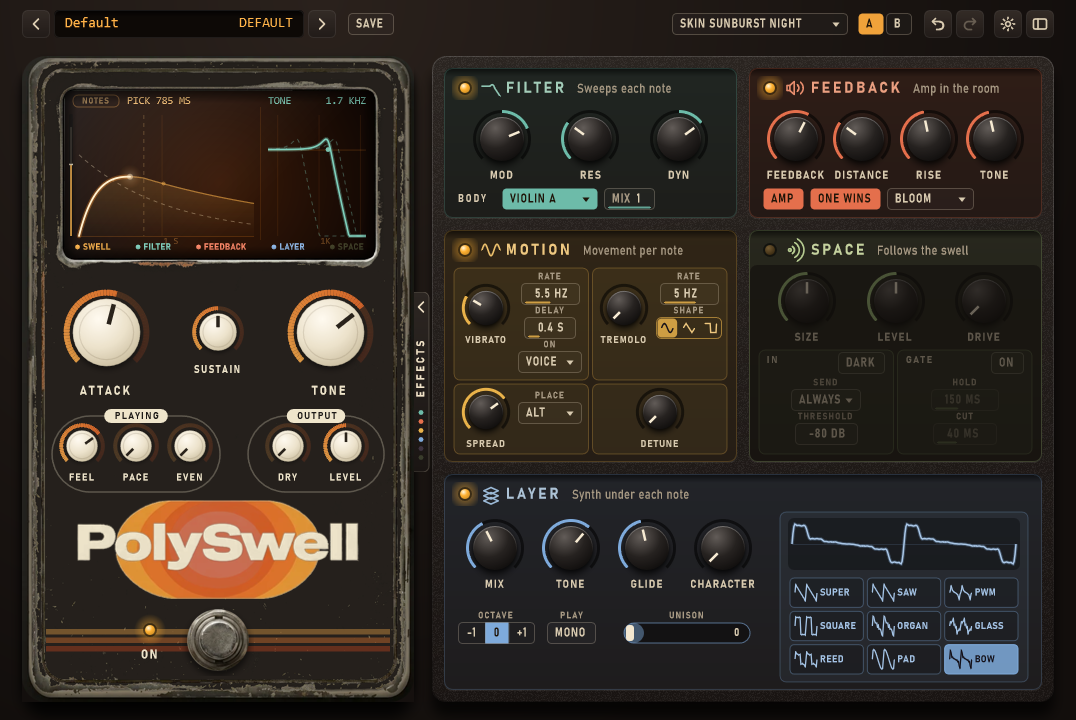
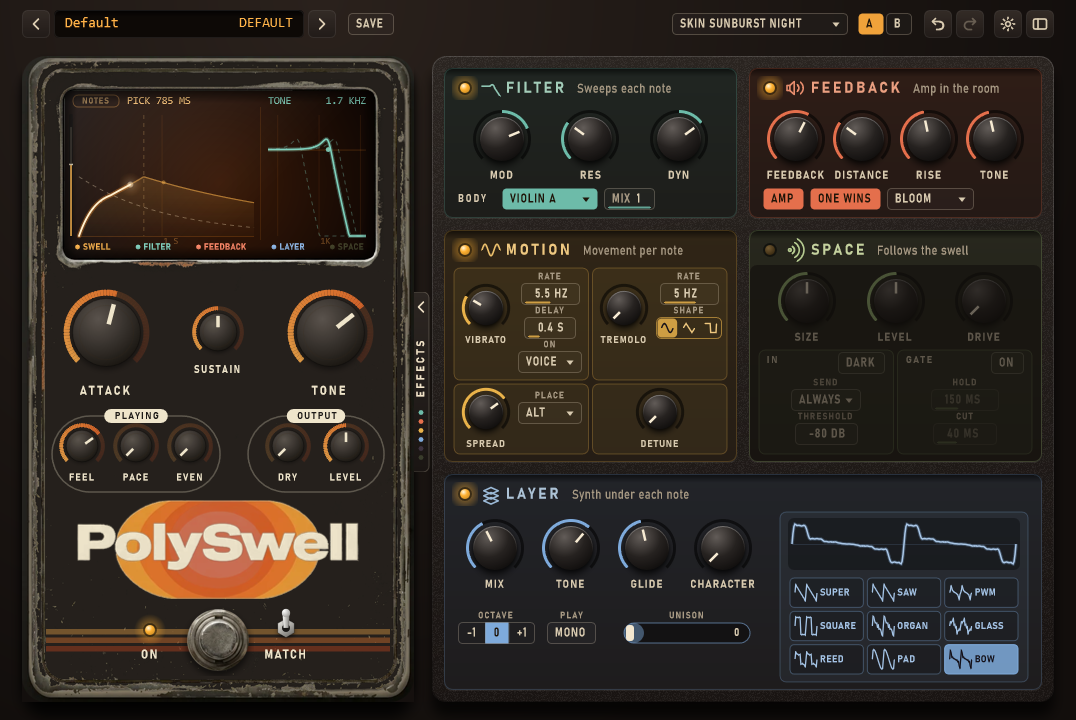
Sunburst Night: black knobs with cream pointers; MATCH tooltip says the POG2 behaves like MATCH on

diff --git a/Source/PluginEditor.cpp b/Source/PluginEditor.cpp
@@ -47,6 +47,7 @@ struct Skin
     Colour ink, body1, frame2, accent, onAccent, led;
     Colour rings[3];
     Colour glass1, glass2, glow, amber, pale, text, textHi;
+    Colour faceHi { 0xfffffaf0 }, faceMid { 0xffece2cb }, faceLo { 0xffc9bc9d }, pointer { 0xff2a231b };   // the pedal knobs (ivory)
     juce::Image plateImg() const { return juce::ImageCache::getFromMemory (plate, plateSize); }
     juce::Image logoImg() const  { return juce::ImageCache::getFromMemory (logo, logoSize); }
 };
@@ -69,7 +70,8 @@ const Skin& skinAt (int i)
         { "Sunburst Night", BinaryData::plate_night_png, BinaryData::plate_night_pngSize, BinaryData::logo_night_png, BinaryData::logo_night_pngSize,
           Colour (0xffefe5cb), Colour (0xff1c1916), Colour (0x47efe5cb), Colour (0xffd9732f), Colour (0xfffff4df), Colour (0xffffb030),
           { Colour (0xffe09a45), Colour (0xffd9732f), Colour (0xffbc4320) },
-          Colour (0xff3a1a08), Colour (0xff0c0503), Colour (0xffff8a1f), Colour (0xffffb347), Colour (0xfffff1cf), Colour (0xffe89a45), Colour (0xffffc777) } };
+          Colour (0xff3a1a08), Colour (0xff0c0503), Colour (0xffff8a1f), Colour (0xffffb347), Colour (0xfffff1cf), Colour (0xffe89a45), Colour (0xffffc777),
+          Colour (0xff5a534c), Colour (0xff35302b), Colour (0xff17140f), Colour (0xffefe5cb) } };   // black knobs, cream pointers
     return s[juce::jlimit (0, kNumSkins - 1, i)];
 }
 
@@ -334,13 +336,13 @@ struct Look : juce::LookAndFeel_V4
             }
             juce::Path face; face.addEllipse (c - R, cy - R, 2 * R, 2 * R);
             juce::DropShadow (juce::Colours::black.withAlpha (0.45f), juce::jmax (2, juce::roundToInt (R * 0.18f)), { 0, juce::jmax (1, juce::roundToInt (R * 0.09f)) }).drawForPath (g, face);
-            juce::ColourGradient fg (Colour (0xfffffaf0), c - R * 0.24f, cy - R * 0.4f, Colour (0xffc9bc9d), c + R * 0.6f, cy + R * 0.9f, true);
-            fg.addColour (0.55, Colour (0xffece2cb));
+            juce::ColourGradient fg (skin->faceHi, c - R * 0.24f, cy - R * 0.4f, skin->faceLo, c + R * 0.6f, cy + R * 0.9f, true);
+            fg.addColour (0.55, skin->faceMid);
             g.setGradientFill (fg); g.fillPath (face);
             g.setColour (juce::Colours::black.withAlpha (0.28f)); g.strokePath (face, juce::PathStrokeType (1.f));
             g.setColour (Colour (0x1f3c2814)); g.drawEllipse (c - R * 0.8f, cy - R * 0.8f, R * 1.6f, R * 1.6f, 1.2f);
             const float sn = std::sin (a), cs = -std::cos (a);
-            g.setColour (Colour (0xff2a231b));
+            g.setColour (skin->pointer);
             g.drawLine (juce::Line<float> (c + sn * R * 0.25f, cy + cs * R * 0.25f, c + sn * R * 0.86f, cy + cs * R * 0.86f), R > 25.f ? 4.5f : R > 16.f ? 3.5f : 2.6f);
             return;
         }
@@ -2379,7 +2381,8 @@ struct PolySwellEditor::Board : juce::Component, Host, juce::Timer
         label ("ON", { px + 128 - 20, py + 592, 40, 14 }, 12.f, col::ink, juce::Justification::centred, true, 0.18f);
         // MATCH: a mini toggle mirroring the LED on the other side of the footswitch
         matchSw = std::make_unique<MiniToggle> (proc, "levelMatch");
-        matchSw->setTooltip ("MATCH: each note's swell ends as loud as its pick (up = on). Off: the note keeps the string's own fade, so looser playing stays quieter. Right-click: MIDI learn.");
+        matchSw->setTooltip ("MATCH: each note's swell ends as loud as its pick (up = on, the default). Off: the note keeps the string's own fade, so looser playing stays quieter. "
+                             "The POG2 has no such switch: its built-in gain always brings plucks back to about their pick level, which is MATCH on. Right-click: MIDI learn.");
         matchSw->onMenu = [this] { midiMenu ("levelMatch", *matchSw); };
         matchSw->setBounds (juce::roundToInt (px + 264 - 16), juce::roundToInt (py + 572 - 20), 32, 40);
         addAndMakeVisible (*matchSw);

diff --git a/CLAUDE.md b/CLAUDE.md
@@ -222,7 +222,7 @@ rings (outer = lightest). Switch: SKIN chip in the top bar or gear > Skin; saved
   Measured: with only DRY OUTPUT up and ATTACK at 0 the POG2 is unity (1.00); the gain grows with its ATTACK (+2.2 dB at
   1/4, +5.9 at 1/2, +8.3 at 3/4). Only the curve shape is modelled now; MATCH is the per-note "back to pick level".
   Test 36 checks there is no gain. Presets POG2 swell (+8.5 dB LEVEL) and Warm pad (+4.5) rebalanced (`--peaks`).
-- Fourth skin Sunburst Night (`kNumSkins`): charcoal plate (`plate_night.png`, cream paint -> #221e1a), the Sunburst
+- Fourth skin Sunburst Night (`kNumSkins`; black knob faces with cream pointers via `Skin::face*`/`pointer`): charcoal plate (`plate_night.png`, cream paint -> #221e1a), the Sunburst
   logo with cream lettering (`logo_night.png`), cream ink, Sunburst rings and glow.
 - MATCH on the pedal: a mini bat toggle (`MiniToggle`, lever up = on) right of the ON footswitch, mirroring the LED;
   right-click = MIDI learn; still in gear > Swell curve too. MATCH is ON by default (param default + `defaultSetup()`):
